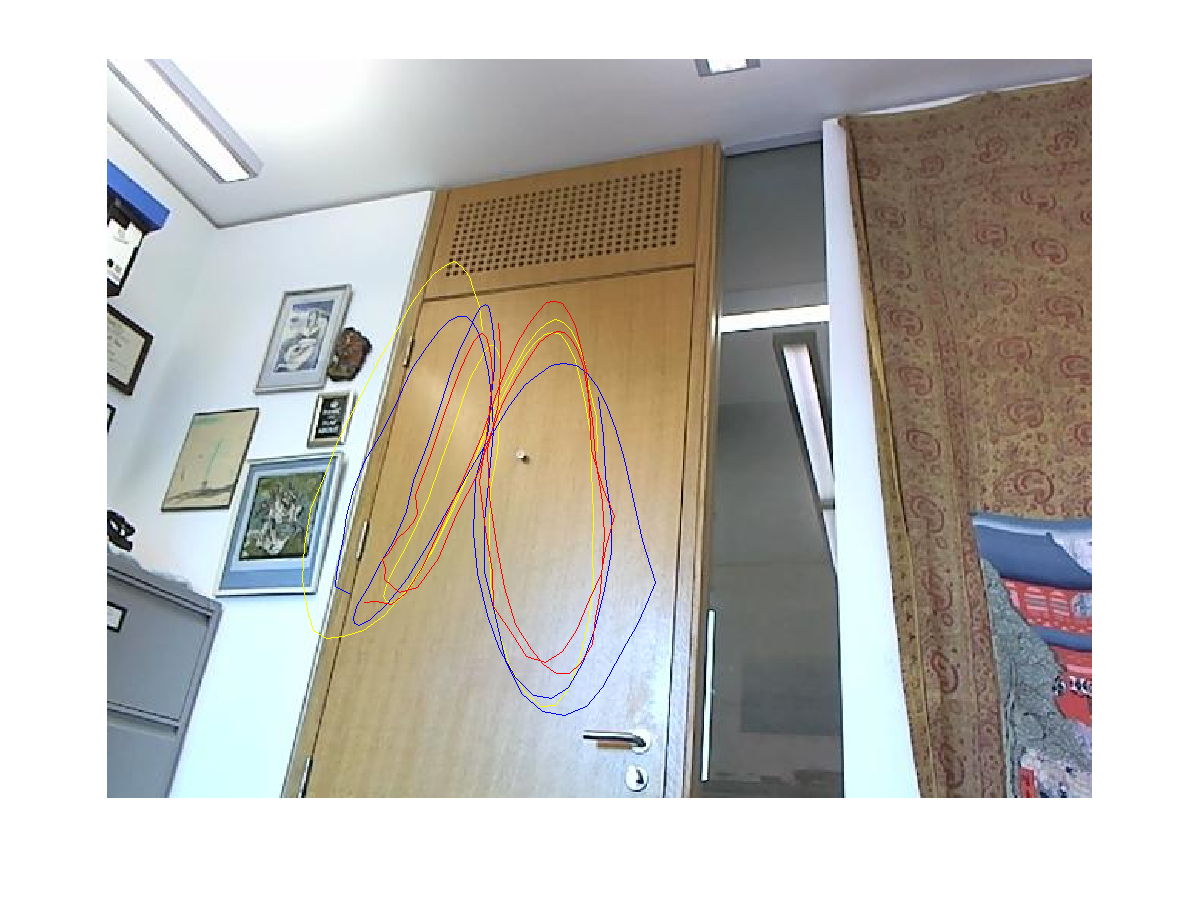
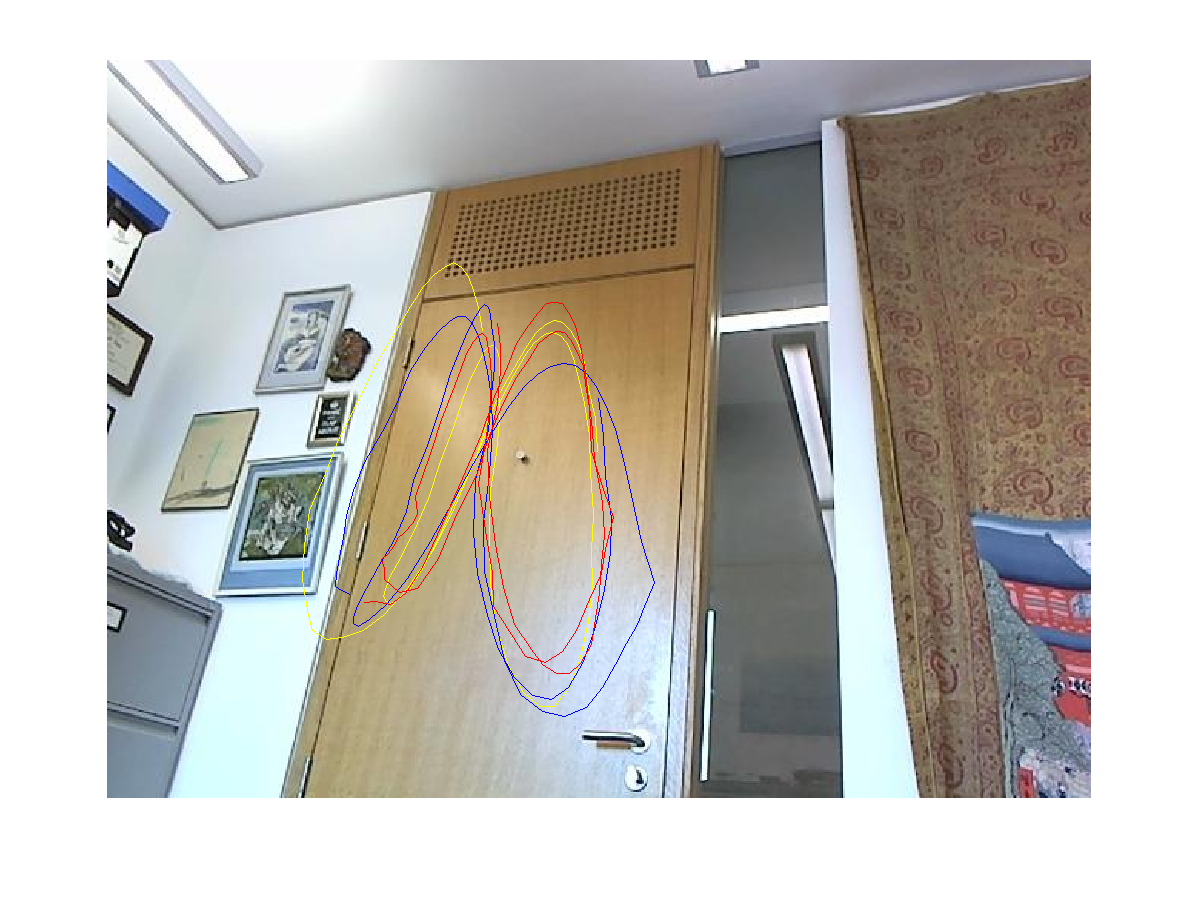
fixed euclidean distance

diff --git a/main.m b/main.m
@@ -77,14 +77,14 @@ function main(skip_detection)
             cr = biggest_center(R);
             tracks(ii, :) = [cy, cb, cr];
             
-            set(fg, 'name', files(ii).name);
-            imshow(R + Y + B);
-            hold on
-            plot(cy(1), cy(2), 'y*', cb(1), cb(2), 'b*', cr(1), cr(2), 'r*');
-            drawnow;
+            % set(fg, 'name', files(ii).name);
+            % imshow(R + Y + B);
+            % hold on
+            % plot(cy(1), cy(2), 'y*', cb(1), cb(2), 'b*', cr(1), cr(2), 'r*');
+            % drawnow;
 						
 						
-            pause(1 - toc)
+            % pause(1 - toc)
             perc = ii/(size(files,1) * 2 + 4);
             waitbar(perc,wb,sprintf('%d%% completed...',round(perc * 100)));
         end 
@@ -96,30 +96,30 @@ function main(skip_detection)
     % Tracking is largely done in the previous step, here we visualise the
     % individual required images as well as an overall image of the
     % juggling.
-    figure(1);
-    imshow(imread('background.jpg'))
-    hold on
-    plot(tracks(:, 1), tracks(:, 2), 'y', tracks(:, 3), ...
-        tracks(:, 4), 'b', tracks(:, 5), tracks(:, 6), 'r')
-    print('-dpng', 'report/tracking')
-    
-    figure(1);
-    imshow(imread('background.jpg'))
-    hold on
-    plot(tracks(:, 1), tracks(:, 2), 'y')
-    print('-dpng', 'report/tracking-yellow')
-    
-    figure(1);
-    imshow(imread('background.jpg'))
-    hold on
-    plot(tracks(:, 3), tracks(:, 4), 'b')
-    print('-dpng', 'report/tracking-blue')
-    
-    figure(1);
-    imshow(imread('background.jpg'))
-    hold on
-    plot(tracks(:, 5), tracks(:, 6), 'r')
-    print('-dpng', 'report/tracking-red')
+    % figure(1);
+    % imshow(imread('background.jpg'))
+    % hold on
+    % plot(tracks(:, 1), tracks(:, 2), 'y', tracks(:, 3), ...
+    %     tracks(:, 4), 'b', tracks(:, 5), tracks(:, 6), 'r')
+    % print('-dpng', 'report/tracking')
+    % 
+    % figure(1);
+    % imshow(imread('background.jpg'))
+    % hold on
+    % plot(tracks(:, 1), tracks(:, 2), 'y')
+    % print('-dpng', 'report/tracking-yellow')
+    % 
+    % figure(1);
+    % imshow(imread('background.jpg'))
+    % hold on
+    % plot(tracks(:, 3), tracks(:, 4), 'b')
+    % print('-dpng', 'report/tracking-blue')
+    % 
+    % figure(1);
+    % imshow(imread('background.jpg'))
+    % hold on
+    % plot(tracks(:, 5), tracks(:, 6), 'r')
+    % print('-dpng', 'report/tracking-red')
        
     
     % Task 3: Evaluation
@@ -131,9 +131,16 @@ function main(skip_detection)
     ev = load('gt1.mat');
     gt = ev.gt1';
     
-    yellow_d = sqrt(sum(gt(:,[7,6]) - tracks(:,[1,2]), 2) .^ 2);
-    blue_d   = sqrt(sum(gt(:,[5,4]) - tracks(:,[3,4]), 2) .^ 2);
-    red_d    = sqrt(sum(gt(:,[3,2]) - tracks(:,[5,6]), 2) .^ 2);
+		% gt is   3, 2 red    4, 5   blue    6 7 yellow
+		% tracks is  1 2 yellow 3,4 blue     5,6 red
+
+		yellow_d = sqrt( (gt(:,7) - tracks(:,1) ).^2 + (gt(:,6) - tracks(:,2)).^2    );
+		blue_d = sqrt(  (gt(:,5) - tracks(:,3) ).^2 + (gt(:,4) - tracks(:,4)).^2     );
+		red_d = sqrt(  (gt(:,3) - tracks(:,5) ).^2 + (gt(:,2) - tracks(:,6) ) .^2) ;
+		
+    % yellow_d = sqrt(sum(  (gt(:,[7,6]) - tracks(:,[1,2]) ) .^ 2 , 2)  );
+    % blue_d   = sqrt(sum(  (gt(:,[5,4]) - tracks(:,[3,4]) ) .^ 2 , 2)  );
+    % red_d    = sqrt(sum(  (gt(:,[3,2]) - tracks(:,[5,6]) ) .^ 2 , 2)  );
     
     yellow_correct = sum(yellow_d < 10);
     blue_correct   = sum(blue_d < 10);
@@ -166,7 +173,7 @@ function main(skip_detection)
             gt(ii,5), gt(ii, 4), 'b*', ...
             gt(ii,3), gt(ii,2), 'r*');
         drawnow;
-        pause(1 - toc)
+        % pause(1 - toc)
         perc = (ii + size(files,1))/(size(files,1) * 2 + 4);
         
         [pathstr, name, ext] = fileparts(files(ii).name);
